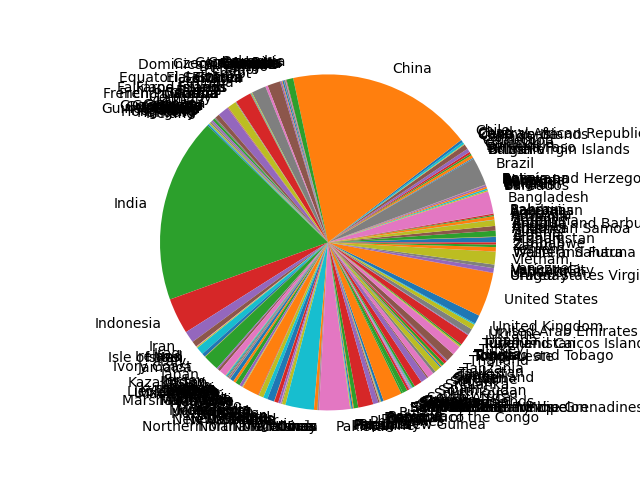
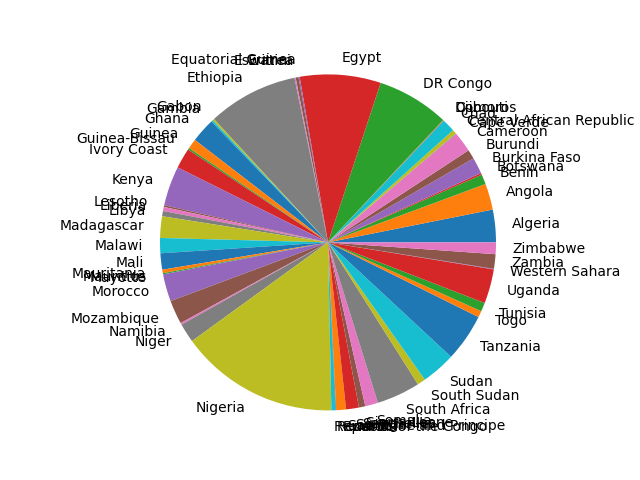
Requests, Pandas, FasAPI, Uvicorn y proximamente Docker, ppf que cursazo se esta aventando Nicolas Molina

diff --git a/app/main.py b/app/main.py
@@ -1,16 +1,25 @@
 import utilidades
 import read_csv
 import charts
+import pandas as pd
 
 def run():
-  data =read_csv.read_csv('./data.csv')
+  """  
   #data = list(filter(lambda item : item['Continent'] == 'South America', data))
 
   countries = list(map(lambda x: x['Country/Territory'], data))
-  percentages = list(map(lambda x: x['World Population Percentage'], data))
+  percentages = list(map(lambda x: x['World Population Percentage'], data))  
+  """
+  # df = data frame
+  df = pd.read_csv('data.csv')
+  df = df[df['Continent'] == 'Africa']
+
+  # OJO aquí con Country/Territory porque en la clase el profe pone sólo Country
+  countries = df['Country/Territory'].values
+  percentages = df['World Population Percentage'].values
   charts.generate_pie_chart(countries, percentages)
 
-
+  data =read_csv.read_csv('data.csv')
   country = input('🏴☠  Escribe el pais del cual quieres su poblacion: ')
   print(country)
 

diff --git a/web-server/main.py b/web-server/main.py
@@ -1,4 +1,22 @@
 import store
+from fastapi import FastAPI
+from fastapi.responses import HTMLResponse
+
+app = FastAPI()
+# https://www.uvicorn.org/
+
+#sintaxis que se conoce como decorador:
+@app.get('/')
+def get_list():
+    return [1,2,3]
+# https://fastapi.tiangolo.com/advanced/custom-response/?h=response+html
+@app.get('/contact', response_class=HTMLResponse)
+def get_list():
+    return """
+        <h1>Hola soy una pagina</h1>
+        <p>soy un parrafo</p>
+    """
+
 
 def run():
     store.get_categories()

diff --git a/README.md b/README.md
@@ -231,3 +231,47 @@ ahora si nos a una lista la cual podemos, iterar, transformar, filtrar, etc.
 
 # Pandas 13/20
 https://platzi.com/clases/4261-python-pip/55133-pandas/
+
+PANDAS
+
+Es una de las librerias mas utilizadas en python y nos sirven para analizar y manipular datos de archivos duros
+
+  673  cd python-pip/
+  674  ll
+  675  cd app
+  676  ll
+  677  source env/bin/activate
+  678  which python3
+  679  cat requirements.txt 
+  680  pip3 install pandas
+  681  pip3 freeze
+  684  cat requirements.txt
+  685  pip3 freeze > requirements.txt 
+  686  cat requirements.txt
+  687  python3 main.py 
+  688  ll
+  689  history
+
+# Python para Backend: web server con FastAPI 14/20
+https://platzi.com/clases/4261-python-pip/55134-python-para-backend-web-server-con-fastapi/
+
+https://fastapi.tiangolo.com/#installation
+
+https://www.uvicorn.org/ 
+https://fastapi.tiangolo.com/advanced/custom-response/?h=response+html 
+
+  695  cd web-server
+  696  source env/bin/activate
+  697  which python3
+  698  pip3 install fastapi
+  700  pip3 install "uvicorn[standard]"
+  701  pip3 freeze
+  702  pip3 freeze > requeriments.txt 
+  703  cat requeriments.txt 
+       ya no se corre el main como python3 main.py como un script ahora usamos:
+  704  uvicorn main:app --reload # este es un flag para que recargue el servidor
+
+# Python en contenedores de Docker
+
+# ¿Qué es Docker? 15/20
+https://platzi.com/clases/4261-python-pip/55135-que-es-docker/
